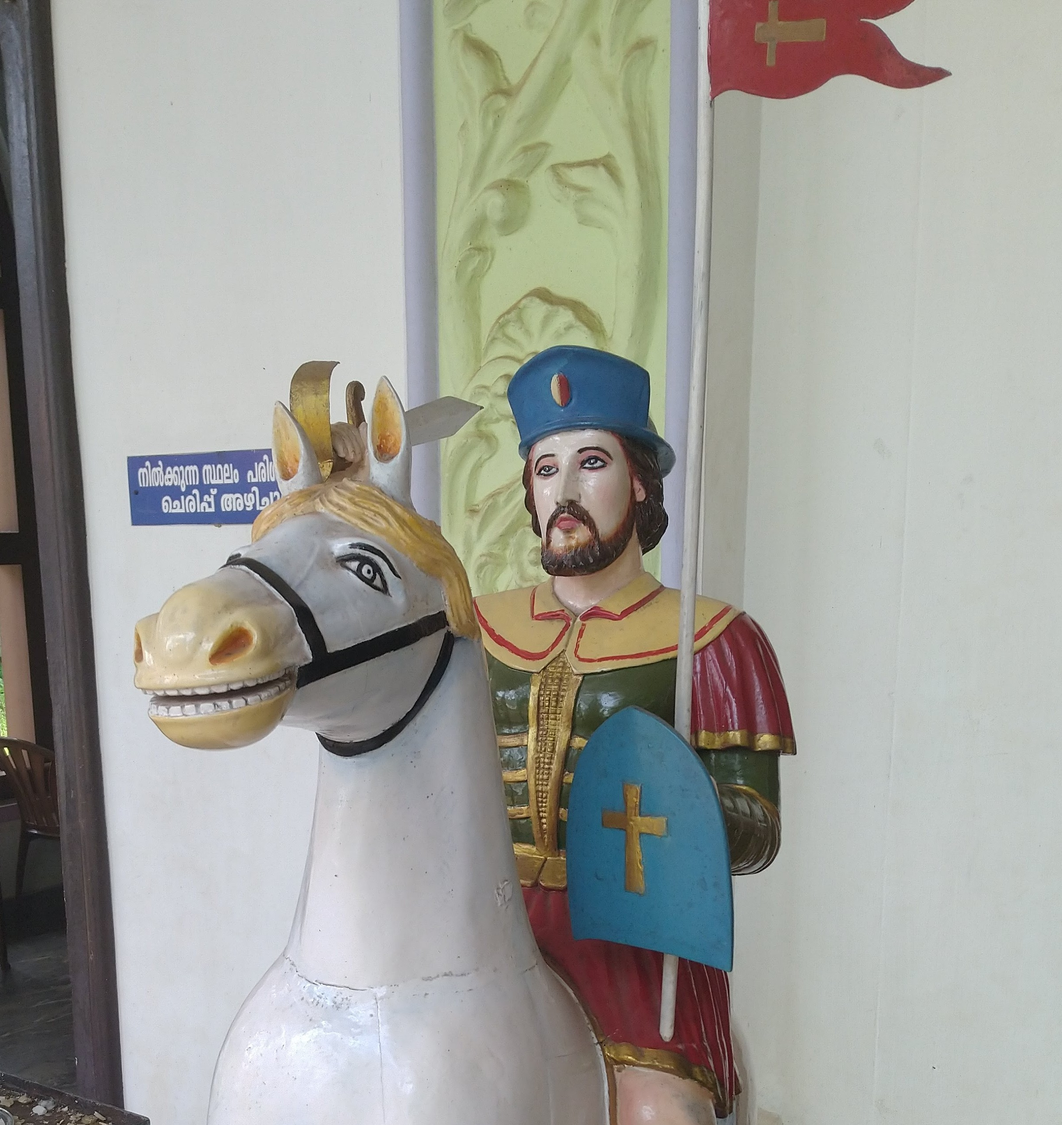
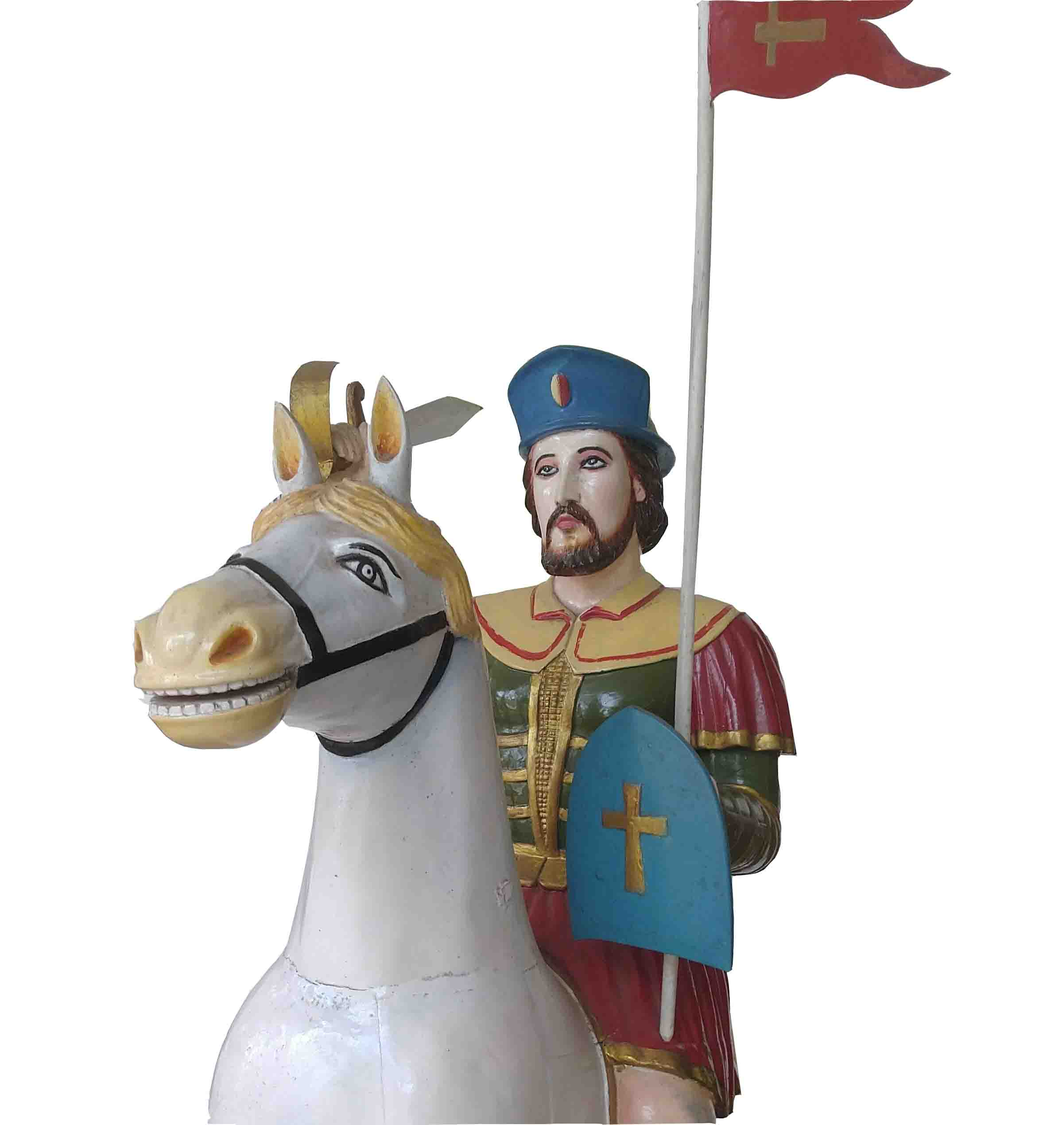
saint james image edited in photoshop and uploaded

diff --git a/index.html b/index.html
@@ -143,7 +143,7 @@
 	<!-- Home -->
 
 	<div class="home">
-		<div class="home_background" style="background-image:url(images/index.jpg)"></div>
+		<div class="home_background" style="background-image:url(images/saintjames.jpg)"></div>
 		<div class="home_content text-center">
 			<div class="container">
 				<div class="row">
